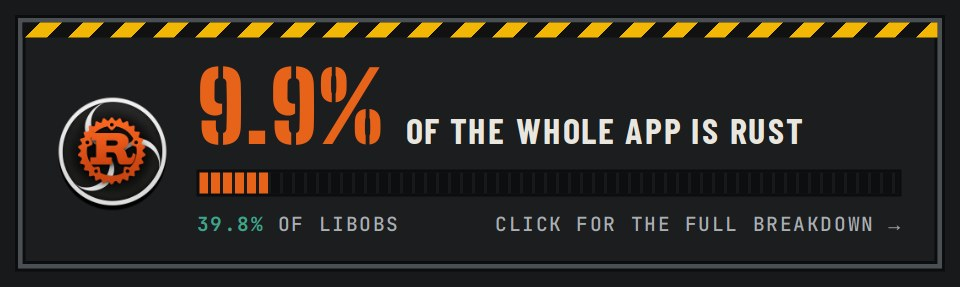
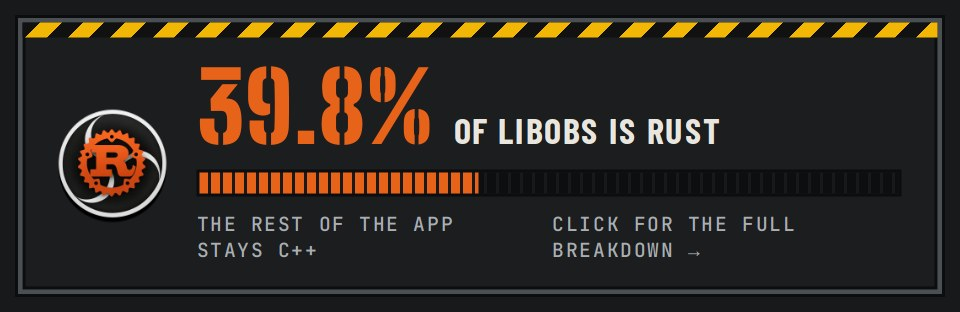
leaderboard: update 2026-10-25T06:26Z

diff --git a/conversion-minimal.html b/conversion-minimal.html
@@ -9,7 +9,9 @@
 <link rel="preconnect" href="https://fonts.gstatic.com" crossorigin>
 <link href="https://fonts.googleapis.com/css2?family=Big+Shoulders+Stencil+Display:wght@800;900&family=Barlow+Condensed:wght@500;600;700&family=JetBrains+Mono:wght@500;700&display=swap" rel="stylesheet">
 <style>
-/* The README card (#2321): one headline number, the libobs share under it.
+/* The README card (#2321): ONE headline number — the libobs share,
+   because libobs is what has to be ported. The rest of the app is allowed to
+   stay C++ in the hybrid build, so the whole-app percentage never leads.
    The full breakdown stays on conversion.html, which the image links to. */
 :root{--steel:#1b1d1f;--edge:#4a4f53;--fg:#e9e6df;--rust:#e8631a;--cu:#3fa58a;--haz:#f2b705}
 *{box-sizing:border-box;margin:0}
@@ -35,9 +37,9 @@ main{border:3px solid var(--edge);background:var(--steel);box-shadow:0 0 0 2px #
 <div class="card">
 <img src="logo.png" alt="">
 <div class="body">
-<div class="head"><span class="num" id="app">--</span><span class="what">of the whole app is Rust</span></div>
+<div class="head"><span class="num" id="lib">--</span><span class="what">of libobs is Rust</span></div>
 <div class="gauge"><i id="bar" style="width:0"></i></div>
-<div class="sub"><span><b id="lib">--</b> of libobs</span><span>Click for the full breakdown &rarr;</span></div>
+<div class="sub"><span>The rest of the app stays C++</span><span>Click for the full breakdown &rarr;</span></div>
 </div>
 </div>
 </main>
@@ -45,10 +47,9 @@ main{border:3px solid var(--edge);background:var(--steel);box-shadow:0 0 0 2px #
 (async()=>{
 let d;try{d=await (await fetch("conversion.json",{cache:"no-store"})).json()}catch(e){return}
 const pct=p=>Number(p).toFixed(1)+"%";
-const app=d.app.percent;
-document.getElementById("app").textContent=pct(app);
-document.getElementById("bar").style.width=Math.min(100,Math.max(0,app))+"%";
-document.getElementById("lib").textContent=pct(d.libobs.all.percent);
+const lib=d.libobs.all.percent;
+document.getElementById("lib").textContent=pct(lib);
+document.getElementById("bar").style.width=Math.min(100,Math.max(0,lib))+"%";
 document.body.dataset.ready="1";
 })();
 </script>
